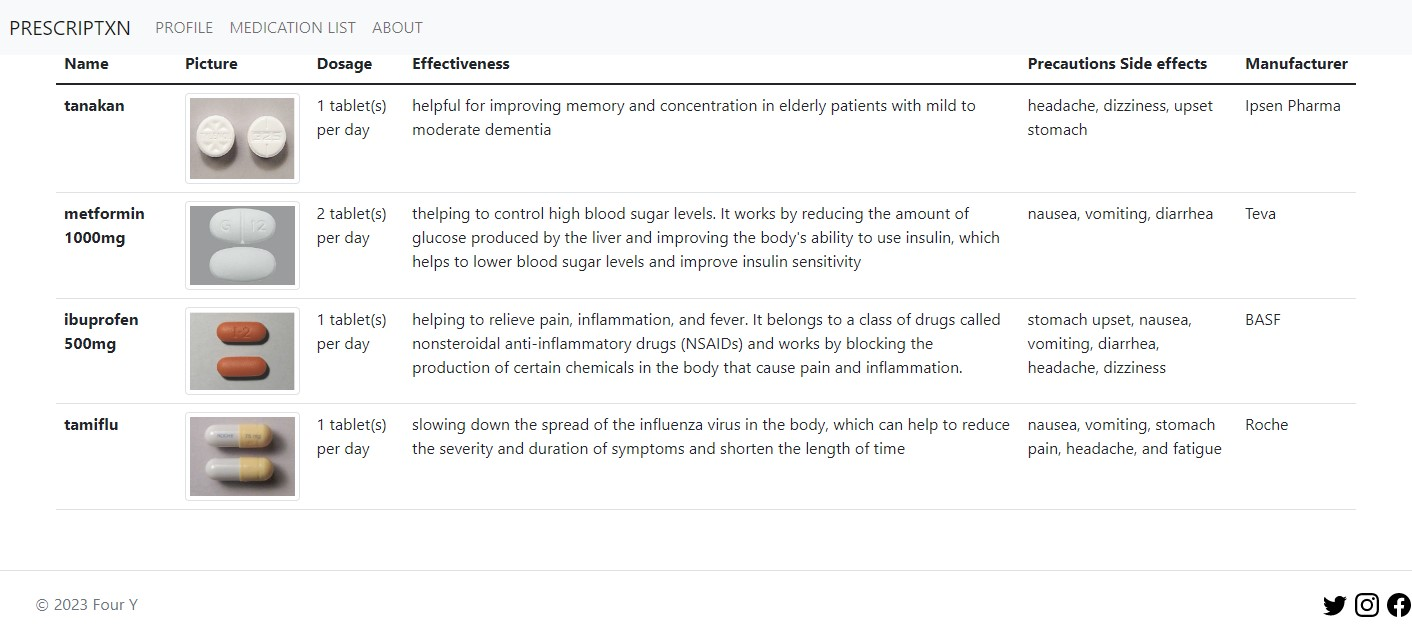
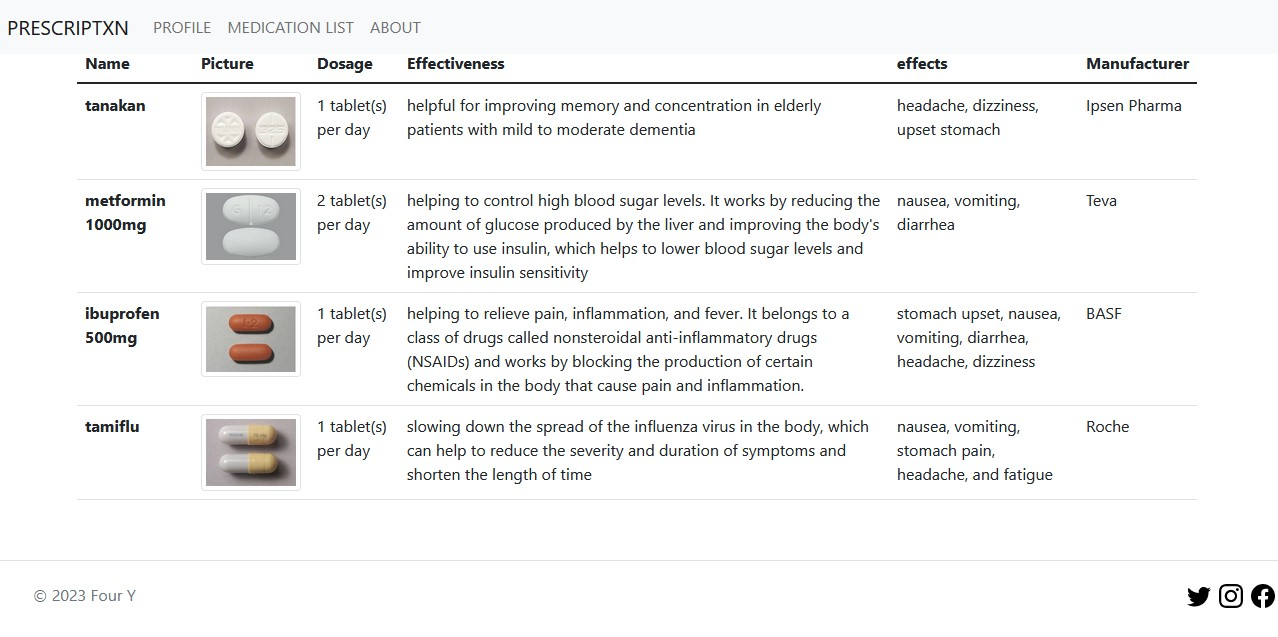
Updated Readme 230619

diff --git a/smartcity/.prescriptxn/templates/medinfo.html b/smartcity/.prescriptxn/templates/medinfo.html
@@ -35,7 +35,7 @@
                             <img src="static/img/metformin.jpg" class="img-fluid img-thumbnail" alt="symbicort" width="250" height="100">
                         </td>
                         <td>2 tablet(s) per day</td>
-                        <td>thelping to control high blood sugar levels. It works by reducing the amount of glucose produced by the liver and improving the body's ability to use insulin, which helps to lower blood sugar levels and improve insulin sensitivity</td>
+                        <td>helping to control high blood sugar levels. It works by reducing the amount of glucose produced by the liver and improving the body's ability to use insulin, which helps to lower blood sugar levels and improve insulin sensitivity</td>
                         <td>nausea, vomiting, diarrhea</td>
                         <td>Teva</td>
                       </tr>

diff --git a/README.md b/README.md
@@ -6,19 +6,24 @@ PRESCRIPTXN is a system that was developed during 2023 Smart Cities Hackathon - 
 
 ## Contents
 
-- [Solution](#-solution)
-- [Main](#-main)
-- [Medication List](#-medication-list)
-
+- [Solution](#-Solution)
+- [Minimum viable Product](#-MVP)
 
 ## Solution
 
 <img src="/ppt.jpg" width="1000">
 
-## Main
+## MVP
 
 <img src="/main.jpg">
 
-## List
+<img src="/add.jpg">
 
 <img src="/list.jpg">
+
+<img src="/barcode.jpg">
+
+<img src="/app.jpg">
+
+<img src="/about.jpg">
+
